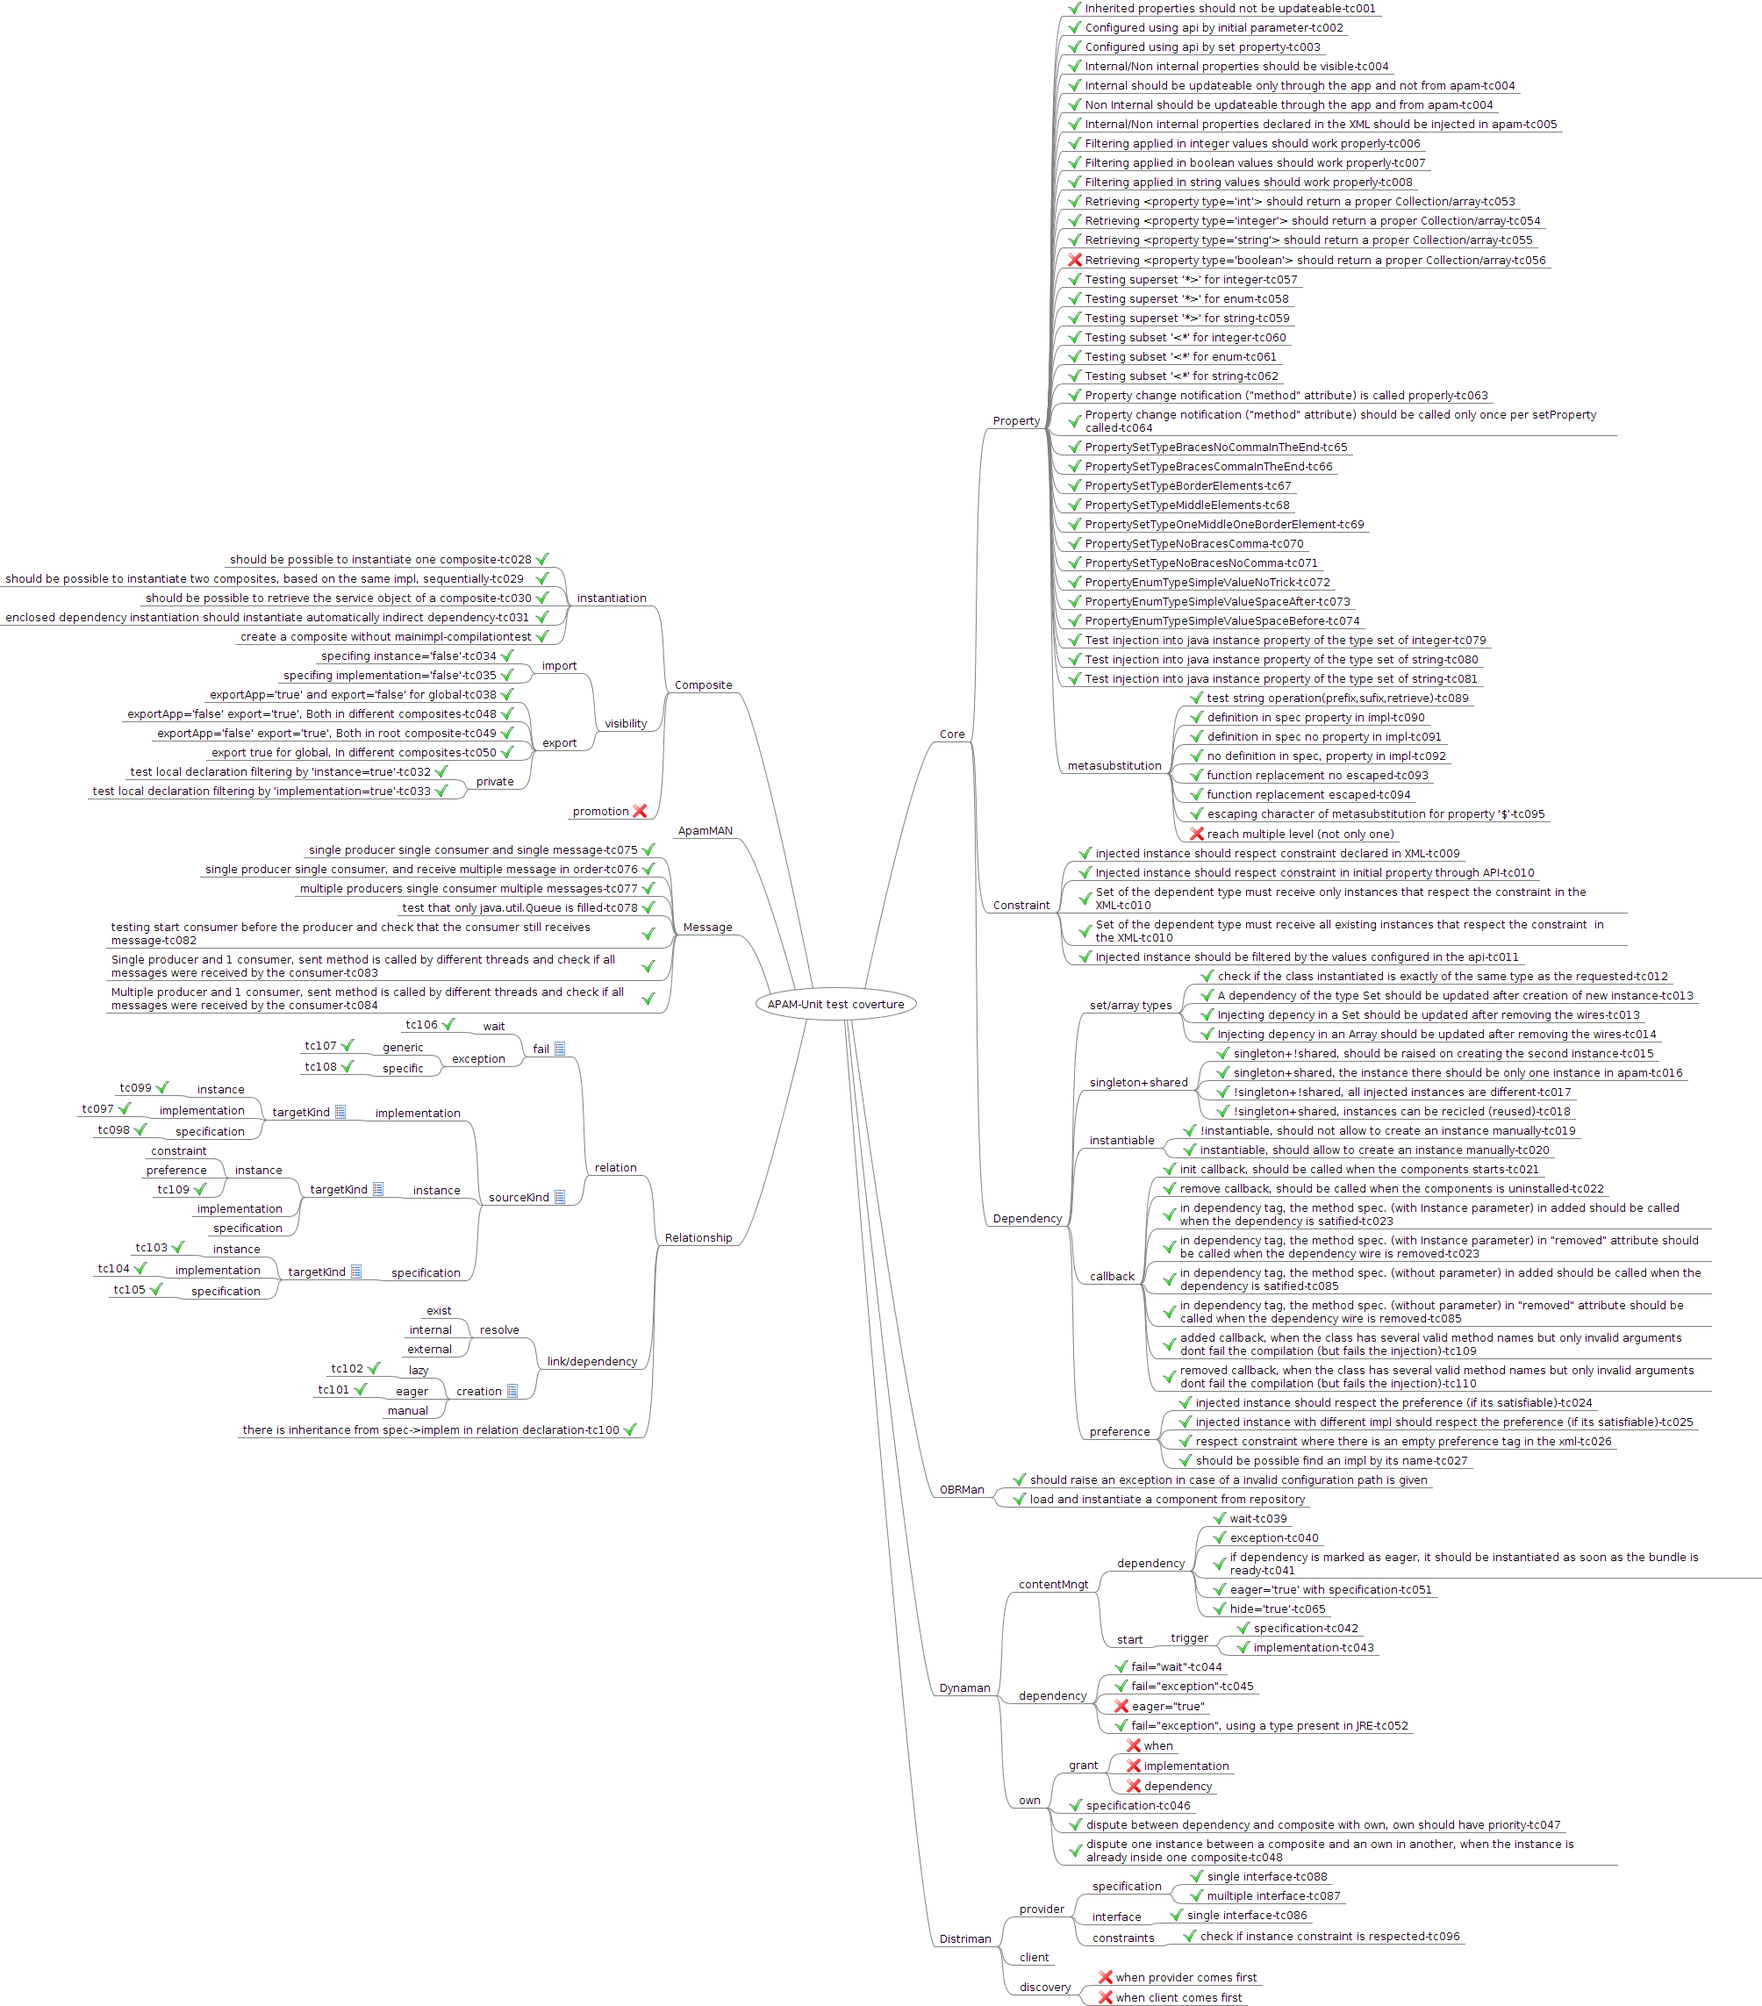
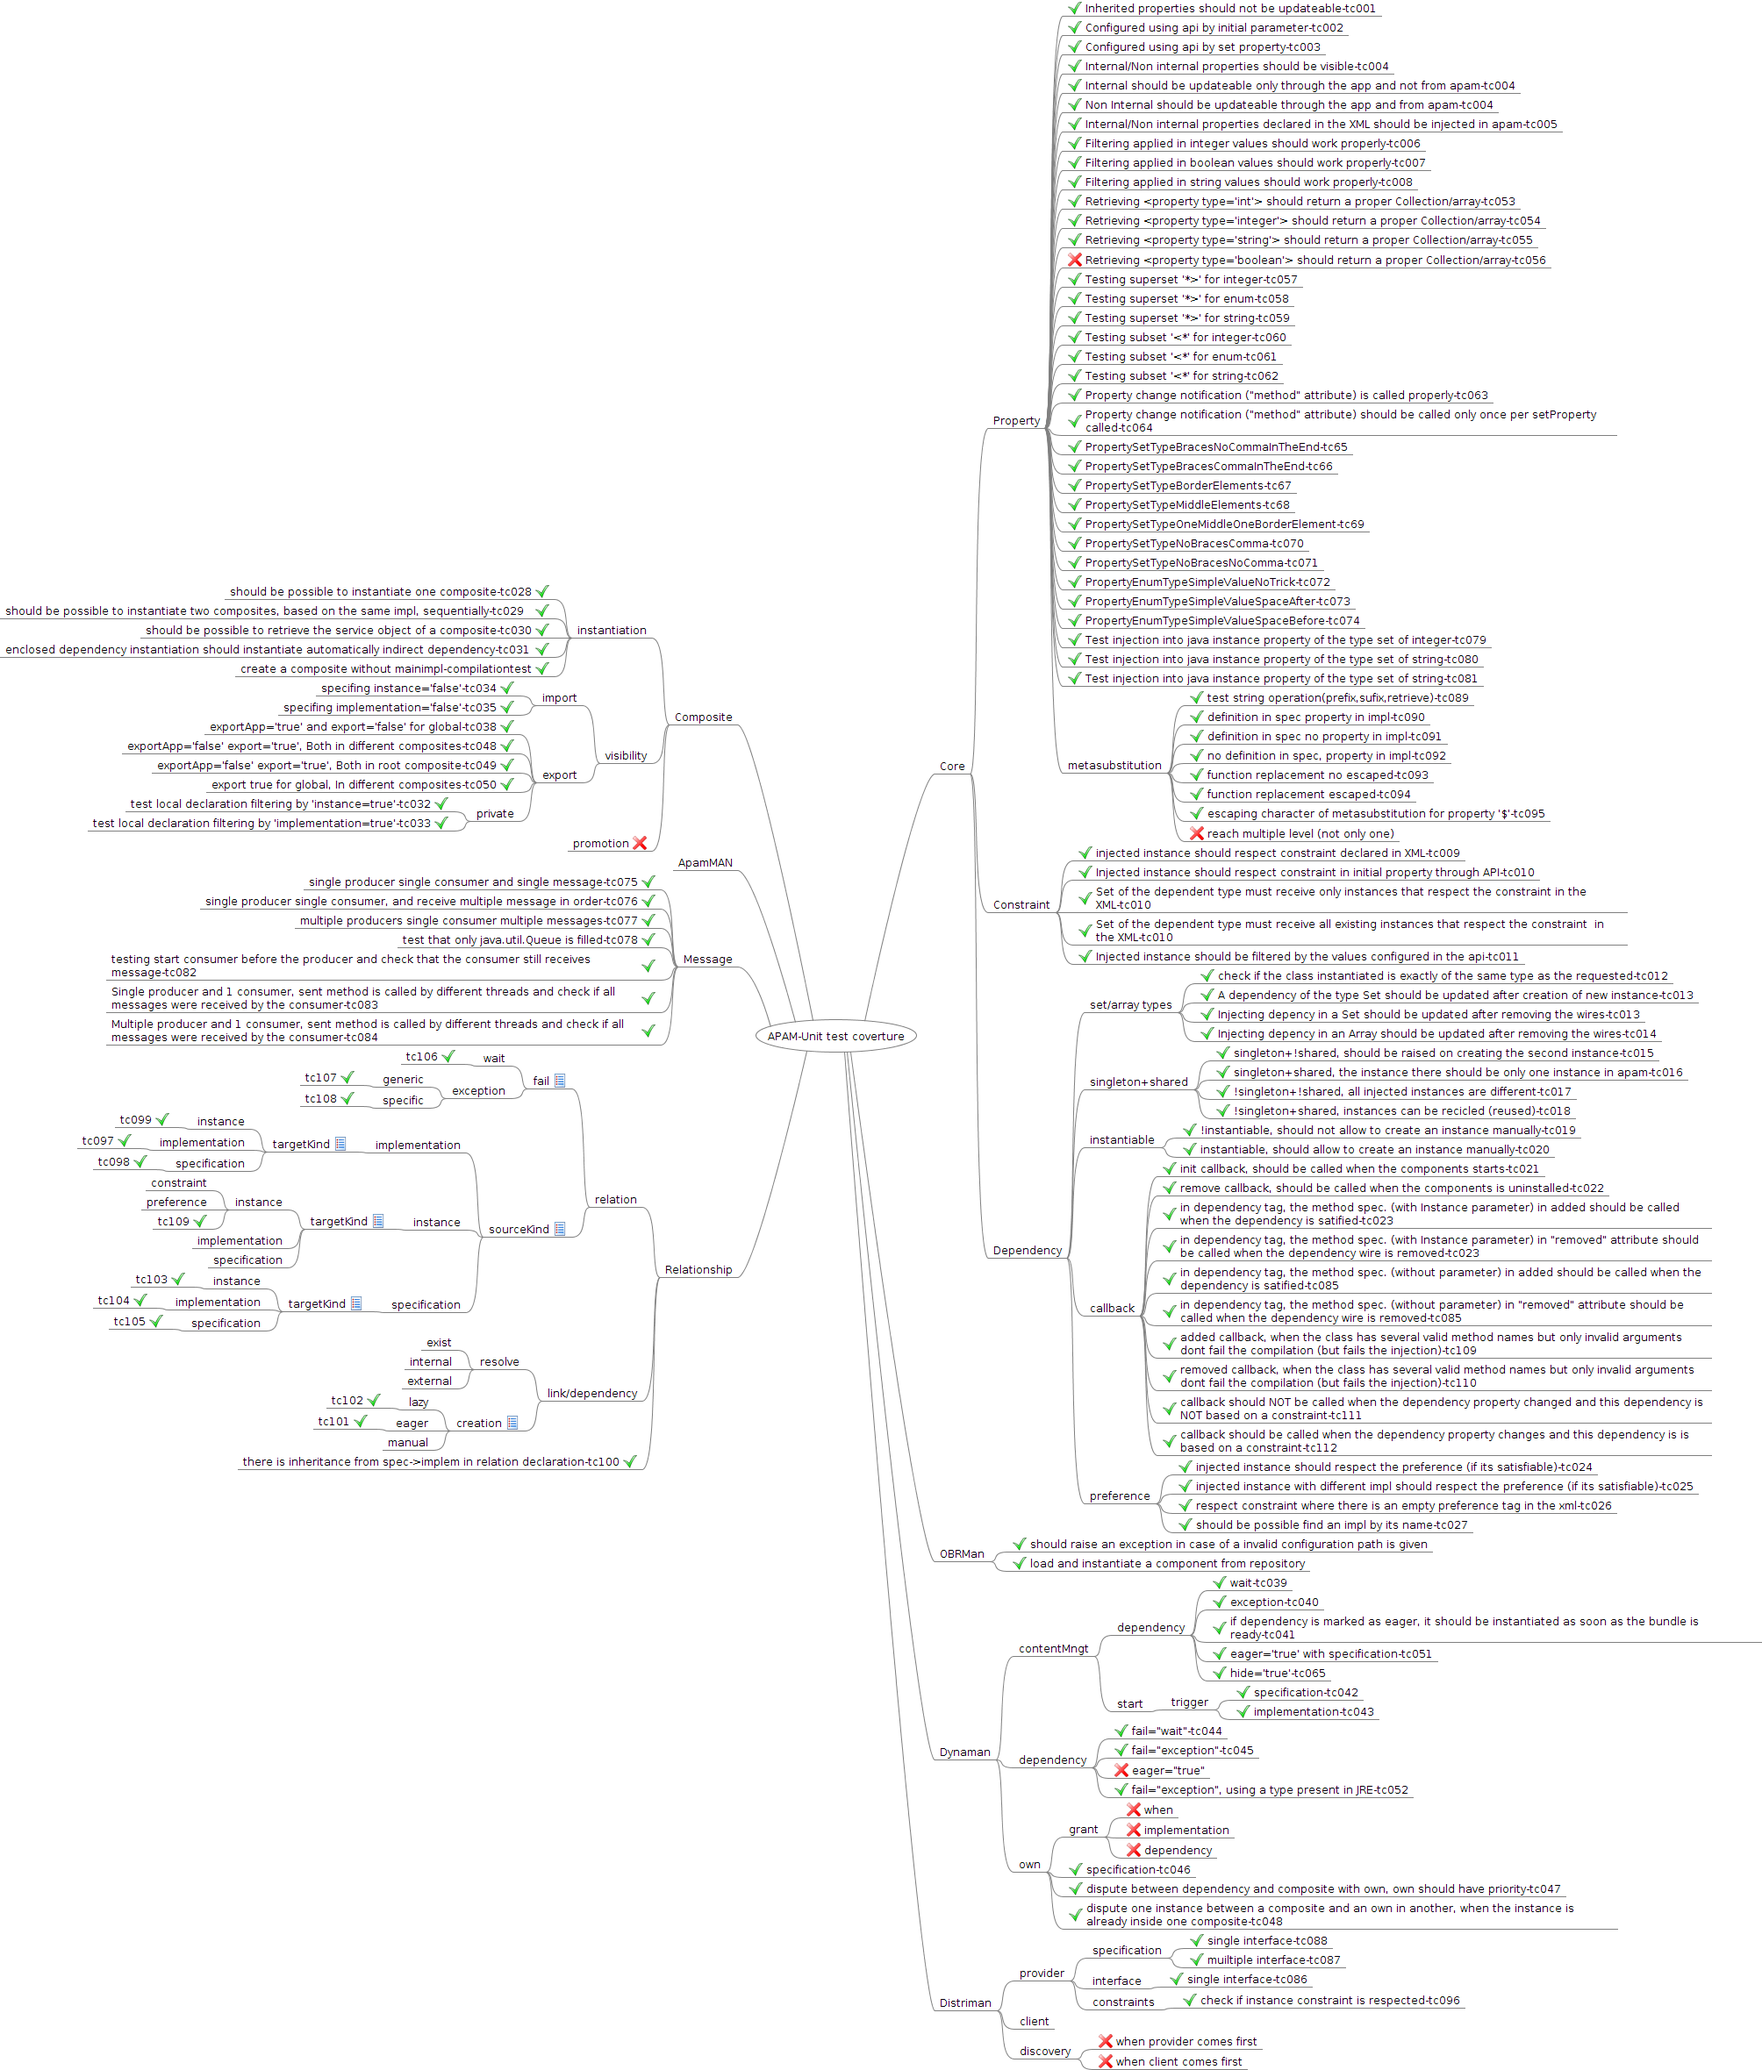
fixing a bug on callback with/without constraint (tc111,tc112)

diff --git a/tests/pax-test/src/test/java/fr/imag/adele/apam/test/testcases/InjectionInstantiationTest.java b/tests/pax-test/src/test/java/fr/imag/adele/apam/test/testcases/InjectionInstantiationTest.java
@@ -685,6 +685,65 @@ public class InjectionInstantiationTest extends ExtensionAbstract {
 				s1.getIsBindUnbindReceivedInstanceParameter() == true);
 
 	}
+	
+	@Test
+	public void removedCallbackWhenThereAreNOConstraints_tc111() {
+
+		String messageTemplate="In case of a remove callback, when a property of a service A change and the service B do NOT use a constraint to inject A on its instance, the link from A->B should NOT be brocken and restablished, thus remove callback should NOT have been called";
+		
+		Implementation impl = CST.apamResolver.findImplByName(null,
+				"S1Impl-removed-callback-with-no-constraint");
+
+		Instance instance = impl.createInstance(null,
+				new HashMap<String, String>());
+
+		S1Impl s1 = (S1Impl) instance.getServiceObject();
+		
+		s1.getS2();
+
+		//The line s1.getS2() creates the link and sets the UnbindReceivedInstanceParameter to true, so we roll it back to false
+
+		s1.setIsBindUnbindReceivedInstanceParameter(false);
+		
+		//after change the variable we expect apam NOT to call the remove method
+		
+		instance.getLinkDest("s2").setProperty("defined-property", "ups");
+		
+		Assert.assertTrue(messageTemplate,
+				s1.getIsBindUnbindReceivedInstanceParameter() == false);
+
+
+	}
+	
+	@Test
+	public void removedCallbackWhenThereAreConstraints_tc112() {
+
+		String messageTemplate="In case of a remove callback, when a property of a service A change and the service B use a constraint to inject A on its instance, the link from A->B should be brocken and restablished, thus remove callback should have been called";
+		
+		Implementation impl = CST.apamResolver.findImplByName(null,
+				"S1Impl-removed-callback-with-constraint");
+
+		Instance instance = impl.createInstance(null,
+				new HashMap<String, String>());
+
+		S1Impl s1 = (S1Impl) instance.getServiceObject();
+				
+		s1.getS2();
+
+		//The line s1.getS2() creates the link and sets the UnbindReceivedInstanceParameter to true, so we roll it back to false
+
+		s1.setIsBindUnbindReceivedInstanceParameter(false);
+		
+		//after change the variable we expect apam to call the remove method
+		
+		instance.getLinkDest("s2").setProperty("defined-property", "ups");
+		
+		
+		Assert.assertTrue(messageTemplate,
+				s1.getIsBindUnbindReceivedInstanceParameter() == true);
+
+
+	}
 
 	@Test
 	@Ignore

diff --git a/documentations/technical/test-coverture/APAM-UnitTest-Coverture-OnFreeMindApp.mm b/documentations/technical/test-coverture/APAM-UnitTest-Coverture-OnFreeMindApp.mm
@@ -189,7 +189,7 @@
 <icon BUILTIN="button_ok"/>
 </node>
 </node>
-<node CREATED="1353075698358" ID="ID_296603360" MODIFIED="1353075702293" TEXT="callback">
+<node CREATED="1353075698358" ID="ID_296603360" MODIFIED="1373558818892" TEXT="callback">
 <node CREATED="1353075111719" ID="ID_968919845" MODIFIED="1354295100923" TEXT="init callback, should be called when the components starts-tc021">
 <icon BUILTIN="button_ok"/>
 </node>
@@ -212,6 +212,12 @@
 <icon BUILTIN="button_ok"/>
 </node>
 <node CREATED="1372953108128" ID="ID_652392009" MODIFIED="1372953121115" TEXT="removed callback, when the class has several valid method names but only invalid arguments dont fail the compilation (but fails the injection)-tc110">
+<icon BUILTIN="button_ok"/>
+</node>
+<node CREATED="1373563097136" ID="ID_1081429386" MODIFIED="1373563265770" TEXT="callback should NOT be called when the dependency property changed and this dependency is NOT based on a constraint-tc111">
+<icon BUILTIN="button_ok"/>
+</node>
+<node CREATED="1373563174319" ID="ID_716967721" MODIFIED="1373563297587" TEXT="callback should be called when the dependency property changes and this dependency is is based on a constraint-tc112">
 <icon BUILTIN="button_ok"/>
 </node>
 </node>

diff --git a/runtime/core/src/main/java/fr/imag/adele/apam/impl/RelationImpl.java b/runtime/core/src/main/java/fr/imag/adele/apam/impl/RelationImpl.java
@@ -618,10 +618,13 @@ public class RelationImpl implements Relation {
 
 	@Override
 	public boolean hasConstraints() {
-		return mngImplementationConstraintFilters != null
-				|| mngInstanceConstraintFilters != null
-				|| implementationConstraintFilters != null
-				|| instanceConstraintFilters != null;
+		
+		return !mngImplementationConstraintFilters.isEmpty()
+				|| !mngInstanceConstraintFilters.isEmpty()
+				|| !implementationConstraintFilters.isEmpty()
+				|| !instanceConstraintFilters.isEmpty();
+
+		
 	}
 
 
